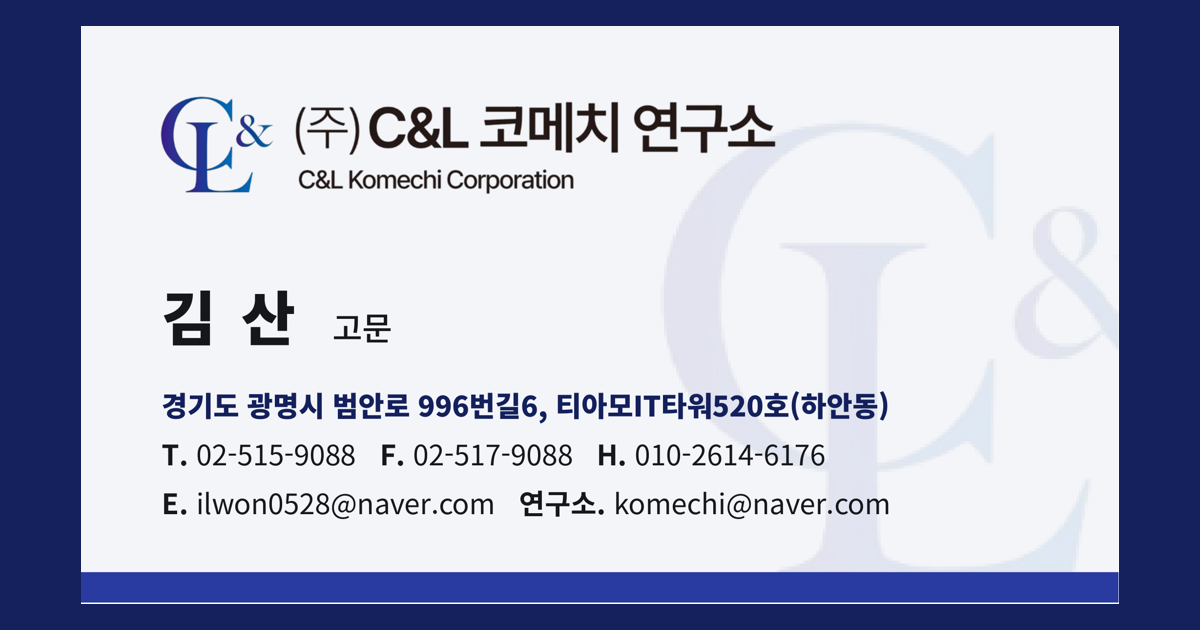
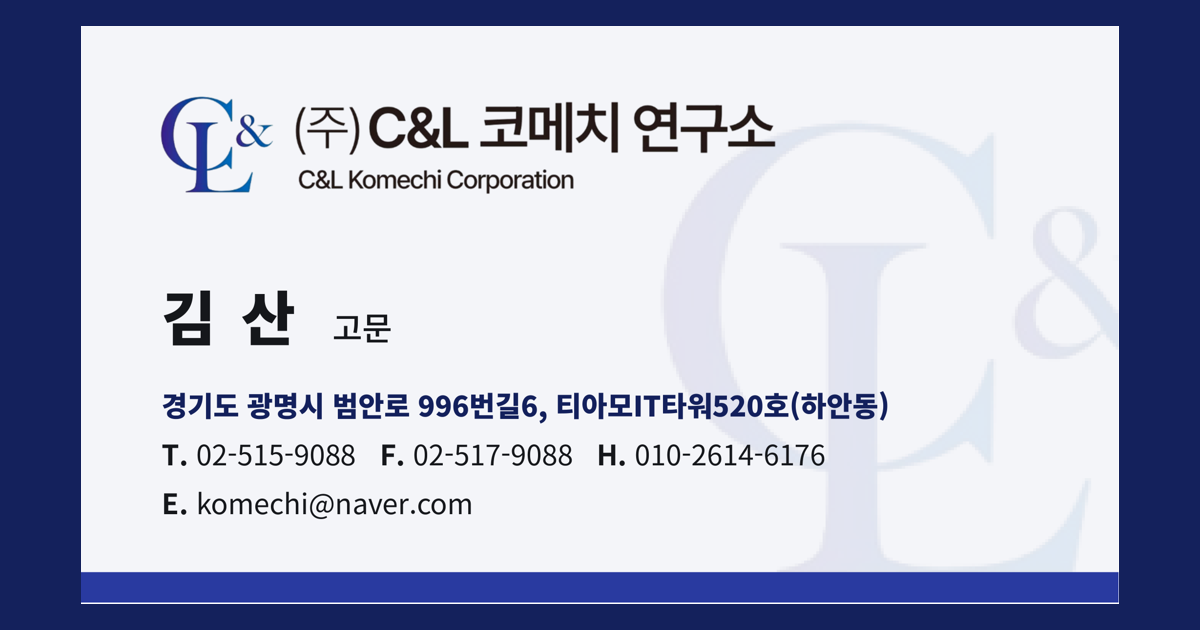
김산 고문 전자명함 메일을 연구소 메일로 변경

Changed region(s): [[0.1542, 0.7841, 0.74, 0.8444]]

diff --git a/content/cards/kimsan.html b/content/cards/kimsan.html
@@ -1,5 +1,5 @@
 <!doctype html><html lang="ko"><head><meta charset="utf-8"><meta name="viewport" content="width=device-width,initial-scale=1">
-<meta name="robots" content="noindex"><title>김산 고문 | (주)C&amp;L 코메치 연구소</title><meta property="og:type" content="profile"><meta property="og:title" content="김산 고문 | (주)C&amp;L 코메치 연구소"><meta property="og:description" content="(주)C&amp;L 코메치 연구소 고문 | 눌러서 연락처 보기·저장"><meta name="description" content="(주)C&amp;L 코메치 연구소 고문 | 눌러서 연락처 보기·저장"><meta property="og:image" content="https://www.komechi.co.kr/card/kimsan.png"><meta property="og:image:width" content="1200"><meta property="og:image:height" content="630"><meta property="og:url" content="https://www.komechi.co.kr/card/kimsan"><meta name="twitter:card" content="summary_large_image"></head>
+<meta name="robots" content="noindex"><title>김산 고문 | (주)C&amp;L 코메치 연구소</title><meta property="og:type" content="profile"><meta property="og:title" content="김산 고문 | (주)C&amp;L 코메치 연구소"><meta property="og:description" content="(주)C&amp;L 코메치 연구소 고문 | 눌러서 연락처 보기·저장"><meta name="description" content="(주)C&amp;L 코메치 연구소 고문 | 눌러서 연락처 보기·저장"><meta property="og:image" content="https://www.komechi.co.kr/card/kimsan.png?v=2"><meta property="og:image:width" content="1200"><meta property="og:image:height" content="630"><meta property="og:url" content="https://www.komechi.co.kr/card/kimsan"><meta name="twitter:card" content="summary_large_image"></head>
 <body style="margin:0;background:#eef1f6;font-family:'Noto Sans KR','Apple SD Gothic Neo','Malgun Gothic',sans-serif;color:#15171c">
 <div style="max-width:440px;margin:0 auto;min-height:100vh;background:#fff">
   <div style="background:#14215c;color:#fff;padding:34px 24px 28px">
@@ -11,12 +11,12 @@
   <div style="padding:18px 16px 6px;display:grid;grid-template-columns:1fr 1fr 1fr;gap:8px">
     <a href="tel:01026146176" style="display:block;text-align:center;padding:14px 0;border-radius:12px;font-weight:700;font-size:15px;text-decoration:none;background:#2a3aa0;color:#fff">전화</a>
     <a href="sms:01026146176" style="display:block;text-align:center;padding:14px 0;border-radius:12px;font-weight:700;font-size:15px;text-decoration:none;background:#eef1ff;color:#2a3aa0">문자</a>
-    <a href="mailto:ilwon0528@naver.com" style="display:block;text-align:center;padding:14px 0;border-radius:12px;font-weight:700;font-size:15px;text-decoration:none;background:#eef1ff;color:#2a3aa0">이메일</a>
+    <a href="mailto:komechi@naver.com" style="display:block;text-align:center;padding:14px 0;border-radius:12px;font-weight:700;font-size:15px;text-decoration:none;background:#eef1ff;color:#2a3aa0">이메일</a>
   </div>
   <div style="padding:6px 16px 14px"><a href="/card/kimsan.vcf" download="김산_고문.vcf" style="display:block;text-align:center;padding:14px 0;border-radius:12px;font-weight:700;font-size:15px;text-decoration:none;background:#15171c;color:#fff">연락처에 저장</a></div>
   <div style="border-top:8px solid #f3f5f9">
     <a href="tel:01026146176" style="display:flex;padding:13px 16px;border-bottom:1px solid #eef0f4;text-decoration:none;color:#15171c"><span style="width:76px;color:#2a3aa0;font-weight:700;font-size:13px">휴대전화</span><span>010-2614-6176</span></a><a href="tel:025159088" style="display:flex;padding:13px 16px;border-bottom:1px solid #eef0f4;text-decoration:none;color:#15171c"><span style="width:76px;color:#2a3aa0;font-weight:700;font-size:13px">대표전화</span><span>02-515-9088</span></a>
-    <a href="#" style="display:flex;padding:13px 16px;border-bottom:1px solid #eef0f4;text-decoration:none;color:#15171c"><span style="width:76px;color:#2a3aa0;font-weight:700;font-size:13px">팩스</span><span>02-517-9088</span></a><a href="mailto:ilwon0528@naver.com" style="display:flex;padding:13px 16px;border-bottom:1px solid #eef0f4;text-decoration:none;color:#15171c"><span style="width:76px;color:#2a3aa0;font-weight:700;font-size:13px">이메일</span><span>ilwon0528@naver.com</span></a><a href="mailto:komechi@naver.com" style="display:flex;padding:13px 16px;border-bottom:1px solid #eef0f4;text-decoration:none;color:#15171c"><span style="width:76px;color:#2a3aa0;font-weight:700;font-size:13px">연구소</span><span>komechi@naver.com</span></a>
+    <a href="#" style="display:flex;padding:13px 16px;border-bottom:1px solid #eef0f4;text-decoration:none;color:#15171c"><span style="width:76px;color:#2a3aa0;font-weight:700;font-size:13px">팩스</span><span>02-517-9088</span></a><a href="mailto:komechi@naver.com" style="display:flex;padding:13px 16px;border-bottom:1px solid #eef0f4;text-decoration:none;color:#15171c"><span style="width:76px;color:#2a3aa0;font-weight:700;font-size:13px">이메일</span><span>komechi@naver.com</span></a>
     <a href="https://map.naver.com/p/search/%EA%B2%BD%EA%B8%B0%EB%8F%84%20%EA%B4%91%EB%AA%85%EC%8B%9C%20%EB%B2%94%EC%95%88%EB%A1%9C996%EB%B2%88%EA%B8%B8%206" style="display:flex;padding:13px 16px;border-bottom:1px solid #eef0f4;text-decoration:none;color:#15171c"><span style="width:76px;color:#2a3aa0;font-weight:700;font-size:13px">주소</span><span>경기도 광명시 범안로996번길 6, 520호<br>(티아모IT타워)</span></a>
   </div>
   <div style="border-top:8px solid #f3f5f9"><a href="https://www.komechi.co.kr" style="display:flex;justify-content:space-between;padding:14px 16px;border-bottom:1px solid #eef0f4;text-decoration:none;color:#15171c"><b>홈페이지</b><span style="color:#6b7280;font-size:13px">komechi.co.kr ›</span></a></div>
